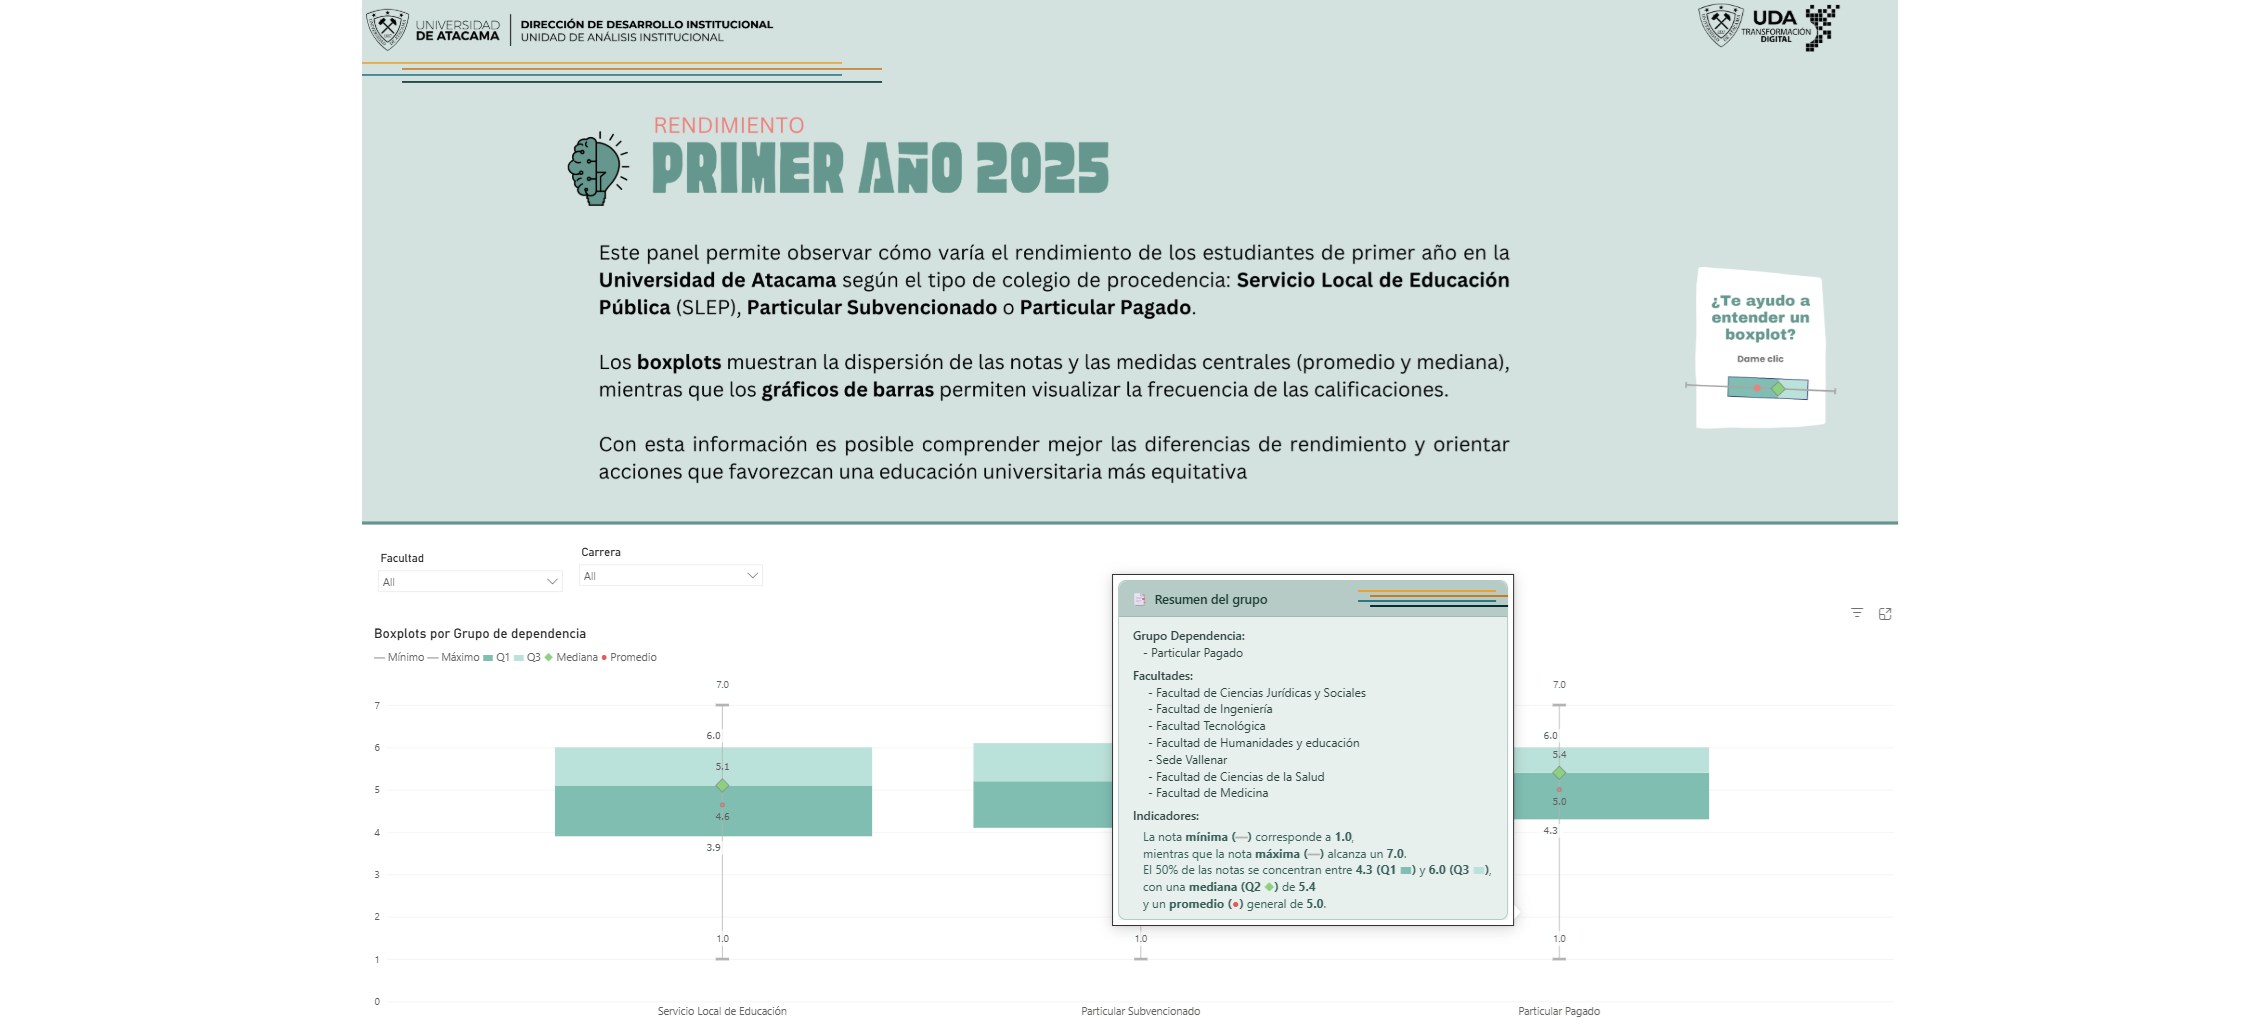
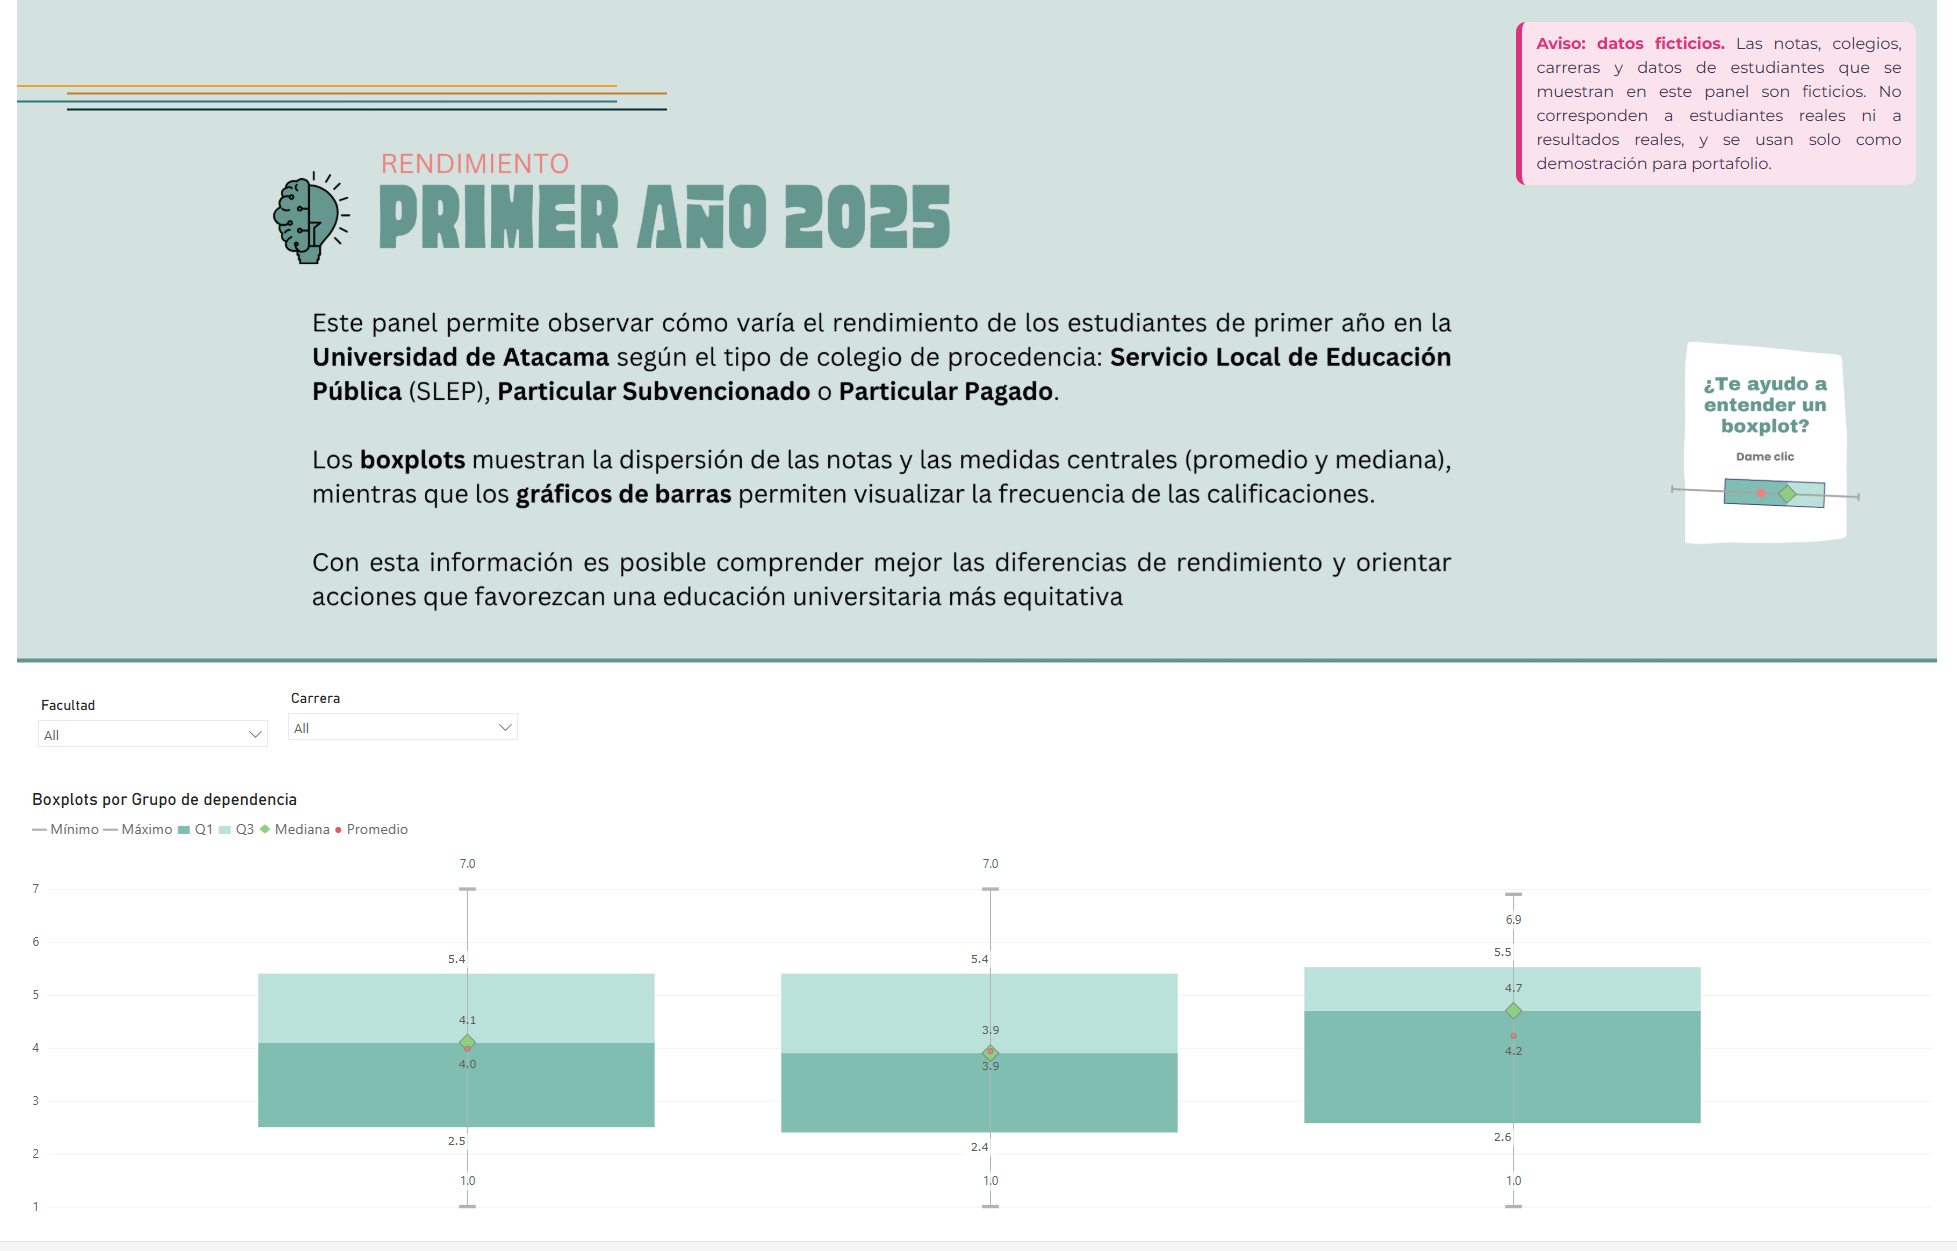
Portafolio: dashboard de rendimiento anonimizado; Atlas con sincronización activa
- Nuevo enlace de Power BI del análisis de rendimiento (datos ficticios),
  texto e imagen de la tarjeta sin el nombre de la institución.
- Atlas: color y altura sincronizados por defecto.

diff --git a/index.html b/index.html
@@ -278,7 +278,7 @@
 
                     <p class="project-stack"><b>Foco:</b> Visualización Avanzada (Boxplots), Análisis Comparativo, Equidad Educativa, Power BI.</p>
                     <p>
-                        Panel de control desarrollado en <b>Power BI</b> para la Universidad de Atacama que analiza la correlación entre el rendimiento académico de los estudiantes de primer año y su <b>tipo de colegio de procedencia</b> (SLEP, Particular Subvencionado o Particular Pagado).
+                        Panel de control desarrollado en <b>Power BI</b> para una <b>institución de educación superior</b> que analiza la correlación entre el rendimiento académico de los estudiantes de primer año y su <b>tipo de colegio de procedencia</b> (SLEP, Particular Subvencionado o Particular Pagado). Los datos publicados son ficticios.
                     </p>
                     <p>
                         <b>Valor Clave:</b> La visualización se centra en el uso de <b>Boxplots</b> (diagramas de caja), permitiendo al usuario <b>comprender la dispersión de las notas</b>, las medidas de tendencia central (mediana y promedio) y los extremos. Esto facilita la toma de decisiones informada para planes de apoyo y equidad.
@@ -287,7 +287,7 @@
                         <b>Habilidad Demostrada:</b> Dominio en el diseño de <b>visualizaciones estadísticas complejas</b> que comunican distribución de datos, y capacidad para transformar datos demográficos en <b>insights</b> accionables para la <b>orientación de acciones institucionales</b>.
                     </p>
                     
-                    <a href="https://app.powerbi.com/view?r=eyJrIjoiNDNiOTE5NTMtYmYxMS00MDQyLTg0NGItNDQ4YmYzZjA2NjcwIiwidCI6ImU5Mzk3ZmNhLTEzYzMtNGNjZC1hMTgyLTQ5MjNkZWM2YzA0YSJ9" target="_blank" class="btn primary-btn">Ver Dashboard (Power BI) <i class="fas fa-chart-area"></i></a>
+                    <a href="https://app.powerbi.com/view?r=eyJrIjoiOTFjN2NkOTQtNWRiZS00MTZhLWJhNzQtMWM0ZmNjMTJhNjZiIiwidCI6ImU5Mzk3ZmNhLTEzYzMtNGNjZC1hMTgyLTQ5MjNkZWM2YzA0YSJ9" target="_blank" class="btn primary-btn">Ver Dashboard (Power BI) <i class="fas fa-chart-area"></i></a>
                     
                 </div>
             </div>

diff --git a/proyectos.html b/proyectos.html
@@ -174,7 +174,7 @@
 
                     <p class="project-stack"><b>Foco:</b> Visualización Avanzada (Boxplots), Análisis Comparativo, Equidad Educativa, Power BI.</p>
                     <p>
-                        Panel de control desarrollado en <b>Power BI</b> para la Universidad de Atacama que analiza la correlación entre el rendimiento académico de los estudiantes de primer año y su <b>tipo de colegio de procedencia</b> (SLEP, Particular Subvencionado o Particular Pagado).
+                        Panel de control desarrollado en <b>Power BI</b> para una <b>institución de educación superior</b> que analiza la correlación entre el rendimiento académico de los estudiantes de primer año y su <b>tipo de colegio de procedencia</b> (SLEP, Particular Subvencionado o Particular Pagado). Los datos publicados son ficticios.
                     </p>
                     <p>
                         <b>Valor Clave:</b> La visualización se centra en el uso de <b>Boxplots</b> (diagramas de caja), permitiendo al usuario <b>comprender la dispersión de las notas</b>, las medidas de tendencia central (mediana y promedio) y los extremos. Esto facilita la toma de decisiones informada para planes de apoyo y equidad.
@@ -183,7 +183,7 @@
                         <b>Habilidad Demostrada:</b> Dominio en el diseño de <b>visualizaciones estadísticas complejas</b> que comunican distribución de datos, y capacidad para transformar datos demográficos en <b>insights</b> accionables para la <b>orientación de acciones institucionales</b>.
                     </p>
                     
-                    <a href="https://app.powerbi.com/view?r=eyJrIjoiNDNiOTE5NTMtYmYxMS00MDQyLTg0NGItNDQ4YmYzZjA2NjcwIiwidCI6ImU5Mzk3ZmNhLTEzYzMtNGNjZC1hMTgyLTQ5MjNkZWM2YzA0YSJ9" target="_blank" class="btn primary-btn">Ver Dashboard (Power BI) <i class="fas fa-chart-area"></i></a>
+                    <a href="https://app.powerbi.com/view?r=eyJrIjoiOTFjN2NkOTQtNWRiZS00MTZhLWJhNzQtMWM0ZmNjMTJhNjZiIiwidCI6ImU5Mzk3ZmNhLTEzYzMtNGNjZC1hMTgyLTQ5MjNkZWM2YzA0YSJ9" target="_blank" class="btn primary-btn">Ver Dashboard (Power BI) <i class="fas fa-chart-area"></i></a>
                     
                 </div>
             </div>

diff --git a/Atlas_Copiapo_3D.html b/Atlas_Copiapo_3D.html
@@ -1425,7 +1425,7 @@
       perfil: 'todos',      // 'todos' | 0..4 | -1
       rango: [0, 100],      // % del rango de la variable de color
       en3D: true,
-      sync: false          // color y altura con la misma variable
+      sync: true           // color y altura con la misma variable (activado por defecto; el usuario puede apagarlo)
     };
     let datos = null, estad = {}, promedios = {}, resumenUV = null;
     // Comunas: el mapa carga solo la que se está viendo (Tierra Amarilla se descarga al elegirla).
@@ -1672,6 +1672,7 @@
 
       document.getElementById('cargando').remove();
       construirControles();
+      pintarBotonesSync();
       actualizarLeyenda();
       construirFiltros();
       construirHistoria(rutas);
@@ -1952,14 +1953,19 @@
       ids.forEach(id => { document.getElementById(id).value = valor; });
     }
 
-    function alternarSync() {
-      estado.sync = !estado.sync;
+    // Muestra en los botones si la sincronización está activa
+    function pintarBotonesSync() {
       document.querySelectorAll('[data-sync]').forEach(b => {
         b.classList.toggle('activo', estado.sync);
         b.setAttribute('aria-pressed', estado.sync);
         b.querySelector('i').className = 'fa-solid ' + (estado.sync ? 'fa-link' : 'fa-link-slash');
         if (b.dataset.tip) b.dataset.tip = 'Sincronizar color y altura · ' + (estado.sync ? 'activado' : 'apagado');
       });
+    }
+
+    function alternarSync() {
+      estado.sync = !estado.sync;
+      pintarBotonesSync();
       if (estado.sync) {
         // Al activar: usa la variable de color si es un indicador; si no, la de altura
         sincronizar(VARIABLE_COMUN(estado.color) ? 'color' : 'altura');
